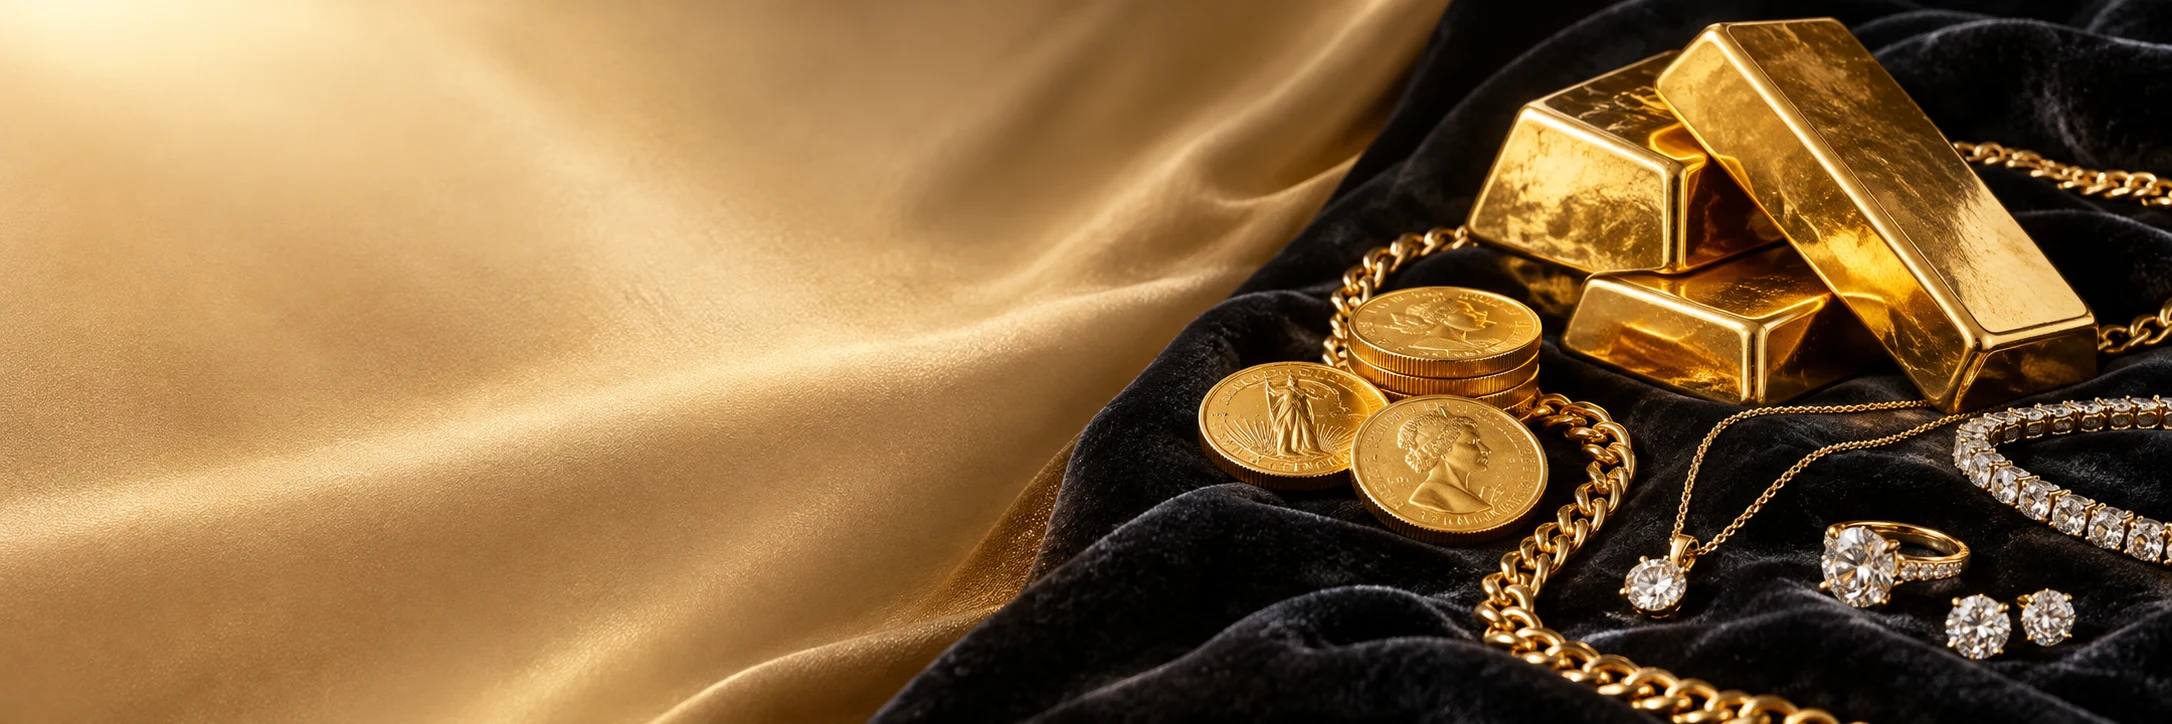
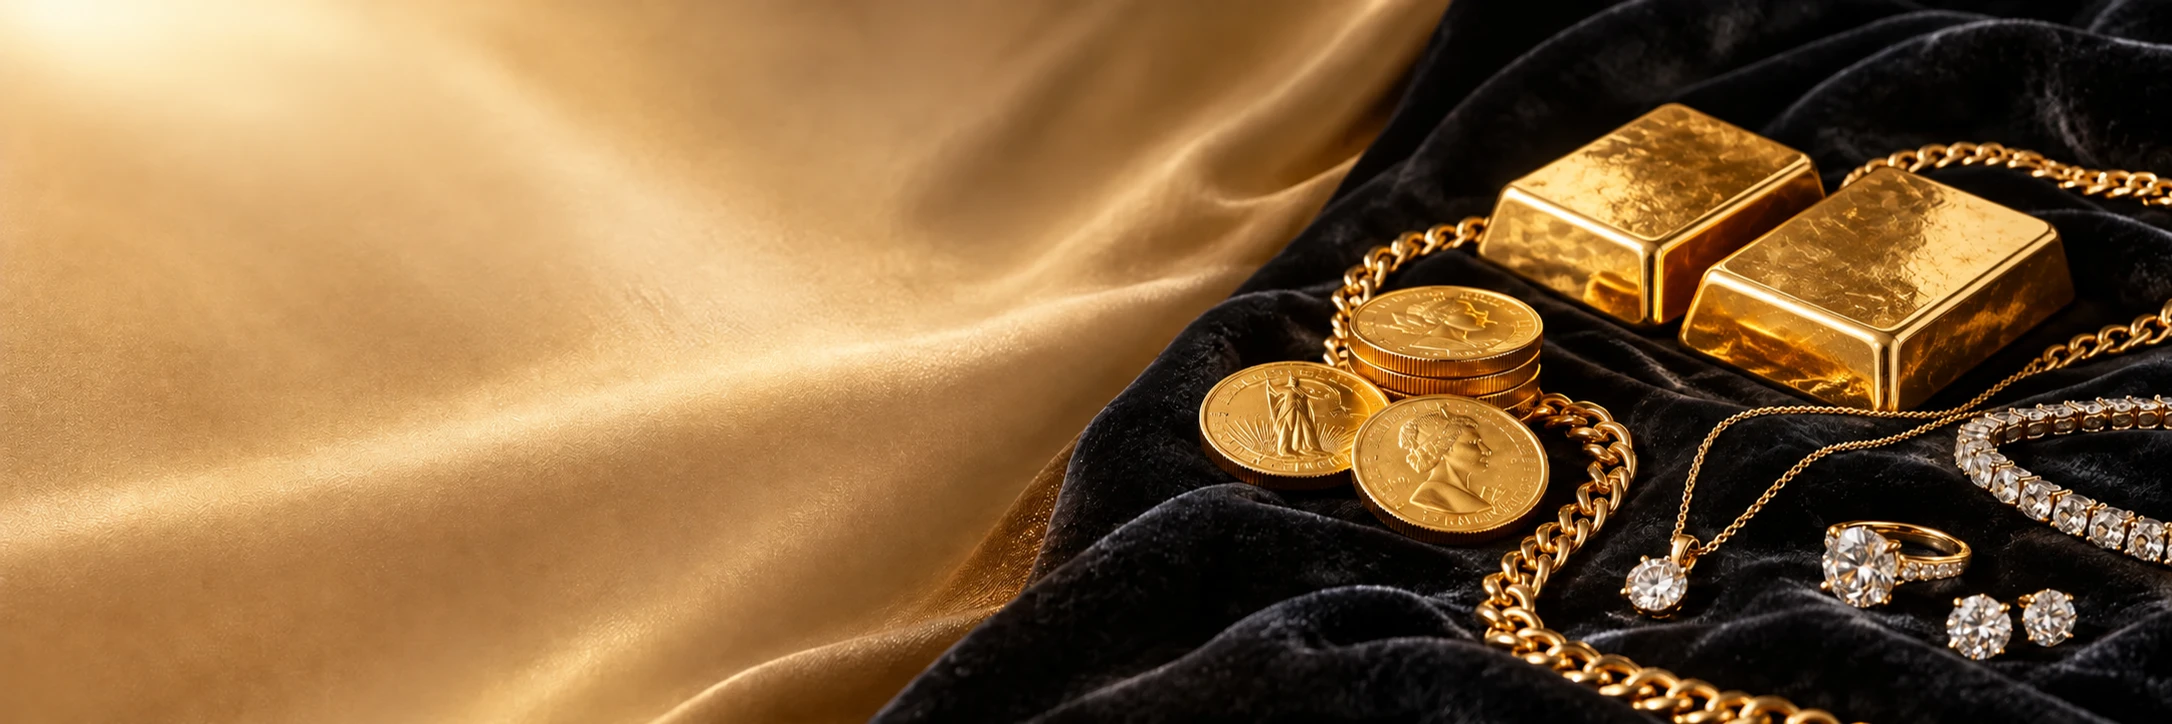
fix: 金買取バナーの金塊を自然な平置きに修正 (#26)

diff --git a/docs/project-notes.md b/docs/project-notes.md
@@ -103,3 +103,11 @@
 - `npm test`: 型検査でエラー・警告なし、25ページ生成、14テスト成功。4種類のbase pathで全生成リンク・アセットの参照先を確認。
 - Chromeで320px・390px・768px・1680px幅を確認し、トップページに横スクロールが発生しないことを確認。390px幅でメニューの開閉と店舗一覧への遷移を確認。
 - デスクトップでトップ・金買取・状態別カードの写真・見出し・枠を確認。モバイルのメインコピーは文節で折り返す。
+
+### 2026-10-15 — Issue #26
+
+- 金・貴金属バナーの金塊を、黒いベルベットの上に2本を離して平置きした構図へ修正。不自然な重なりをなくし、左側のコピー用余白と金貨・ジュエリーを維持する。
+- 使用画像は `public/images/gold-resale-mille.webp`（2172×724）。組み込みの画像生成ツールで既存写真を編集し、WebPへ変換する。
+- 生成プロンプト: Use case: precise-object-edit. Edit target: the supplied wide website photograph (2172x724, 3:1). Correct ONLY the gold ingots in the upper right. Replace the physically ambiguous stack with TWO separate gold ingots lying flat independently side by side on the black velvet, both fully supported by the cloth, with a visible narrow gap, consistent perspective and contact shadows. No stacked bars, no leaning bars, no intersecting bars, no floating objects. Preserve the original wide 3:1 composition, all the empty gold satin on the left for website copy, black velvet on the right, existing coins and jewelry positions and appearance, warm luxury studio lighting and realistic photography. No added text, no watermark. Return the completed wide photograph.
+- 画像のWebP形式・HTML指定寸法・配信ファイルの一致を自動検証。変換後の画像が2172×724であること、および金塊の接地と重なりを確認した。
+- `npm test` 成功（型検査エラー・警告なし、26ページ、22テスト、4種類のbase path）。`npm run lint` 成功（既存の情報レベル指摘1件）。
